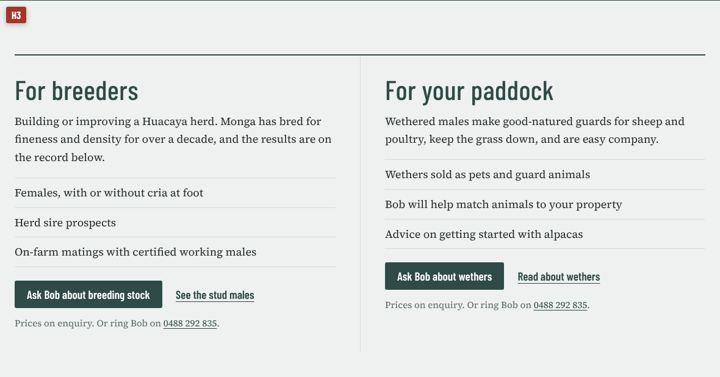
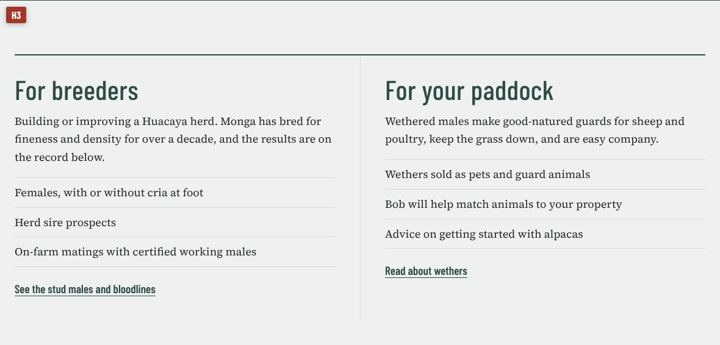
Commit 2: Align photo mosaics with content width

diff --git a/website/index.html b/website/index.html
@@ -64,8 +64,7 @@
           <li>Herd sire prospects</li>
           <li>On-farm matings with certified working males</li>
         </ul>
-        <div class="cta-row"><a class="btn" href="mailto:mongaalpacas@bigpond.com?subject=Breeding%20stock%20enquiry&amp;body=Hello%20Bob%2C%0A%0AI%20am%20interested%20in%20breeding%20stock%20from%20Monga.%0A%0AWhat%20I%20am%20looking%20for%20%28females%2C%20a%20herd%20sire%2C%20matings%29%3A%0A%0AWhere%20I%20am%20based%3A%0A%0AMy%20phone%20number%3A%0A">Ask Bob about breeding stock</a><a class="go" href="#bloodlines">See the stud males</a></div>
-        <p class="cta-note">Prices on enquiry. Or ring Bob on <a href="tel:+61488292835">0488 292 835</a>.</p>
+        <a class="go" href="#bloodlines">See the stud males and bloodlines</a>
       </div>
       <div class="door">
         <h2>For your paddock</h2>
@@ -75,8 +74,7 @@
           <li>Bob will help match animals to your property</li>
           <li>Advice on getting started with alpacas</li>
         </ul>
-        <div class="cta-row"><a class="btn" href="mailto:mongaalpacas@bigpond.com?subject=Wethers%20enquiry&amp;body=Hello%20Bob%2C%0A%0AI%20am%20interested%20in%20wethers%20from%20Monga.%0A%0AHow%20many%2C%20and%20what%20for%20%28pets%2C%20guarding%20sheep%20or%20poultry%29%3A%0A%0AWhere%20I%20am%20based%3A%0A%0AMy%20phone%20number%3A%0A">Ask Bob about wethers</a><a class="go" href="#paddock">Read about wethers</a></div>
-        <p class="cta-note">Prices on enquiry. Or ring Bob on <a href="tel:+61488292835">0488 292 835</a>.</p>
+        <a class="go" href="#paddock">Read about wethers</a>
       </div>
     </div>
   </section>
@@ -121,7 +119,7 @@
       <div><b>Bardella Park Acclaimed</b><span>By Yenaminut Evokateur</span></div>
       <div><b>Bardella Park Mystic Force</b><span>By EP Cambridge Phenomenon. Newest addition</span></div>
     </div>
-    <p class="note" style="margin-top:28px">Fees and availability change through the season. <a href="#contact">Call Bob</a> to talk through your females and what you’re breeding for.</p>
+    <p class="note" style="margin-top:28px">Fees and availability change through the season.</p>
   </section>
 
   <section class="honours" id="honours" data-fb="H5 The show record" aria-labelledby="hon-h">
@@ -193,7 +191,6 @@
           <li>Bob will talk you through fencing, shelter, shearing and feed before you commit</li>
           <li>You’re welcome to visit and meet them first, by arrangement</li>
         </ul>
-        <a class="btn" href="mailto:mongaalpacas@bigpond.com?subject=Wethers%20enquiry&amp;body=Hello%20Bob%2C%0A%0AI%20am%20interested%20in%20wethers%20from%20Monga.%0A%0AHow%20many%2C%20and%20what%20for%20%28pets%2C%20guarding%20sheep%20or%20poultry%29%3A%0A%0AWhere%20I%20am%20based%3A%0A%0AMy%20phone%20number%3A%0A">Ask Bob about wethers</a>
       </div>
     </div>
   </section>
@@ -229,12 +226,13 @@
     </div>
   </section>
 
-  <section class="contact wrap" id="contact" data-fb="H9 Give Bob a ring (contact and map)" aria-labelledby="con-h">
+  <section class="contact wrap" id="contact" data-fb="H9 Contact and map" aria-labelledby="con-h">
     <div class="contact-grid">
       <div>
-        <h2 id="con-h">Give Bob a ring</h2>
+        <h2 id="con-h">Contact</h2>
         <a class="bigphone" href="tel:+61488292835">0488 292 835</a>
-        <p>He’s happy to talk alpacas, whether you’re after a herd sire or two wethers for the back paddock. Visits are by arrangement.</p>
+        <p>Bob is happy to talk alpacas, whether you’re after a herd sire or two wethers for the back paddock. Prices are on enquiry and visits are by arrangement.</p>
+        <p class="enq">Enquire by email: <a href="mailto:mongaalpacas@bigpond.com?subject=Breeding%20stock%20enquiry&amp;body=Hello%20Bob%2C%0A%0AI%20am%20interested%20in%20breeding%20stock%20from%20Monga.%0A%0AWhat%20I%20am%20looking%20for%20%28females%2C%20a%20herd%20sire%2C%20matings%29%3A%0A%0AWhere%20I%20am%20based%3A%0A%0AMy%20phone%20number%3A%0A">breeding stock</a> · <a href="mailto:mongaalpacas@bigpond.com?subject=Wethers%20enquiry&amp;body=Hello%20Bob%2C%0A%0AI%20am%20interested%20in%20wethers%20from%20Monga.%0A%0AHow%20many%2C%20and%20what%20for%20%28pets%2C%20guarding%20sheep%20or%20poultry%29%3A%0A%0AWhere%20I%20am%20based%3A%0A%0AMy%20phone%20number%3A%0A">wethers</a></p>
         <dl>
           <dt>Email</dt><dd><a href="mailto:mongaalpacas@bigpond.com">mongaalpacas@bigpond.com</a></dd>
           <dt>Farm</dt><dd>59 River Forest Road<br>Monga via Braidwood NSW 2622</dd>

diff --git a/website/site.css b/website/site.css
@@ -44,8 +44,8 @@ html{scroll-padding-top:var(--hdr,84px)}
 .top nav a{text-decoration:none;color:var(--ironbark);padding:6px 0;border-bottom:2px solid transparent}
 .top nav a[aria-current]{color:var(--eucalypt);border-bottom-color:var(--grass)}
 .top nav a:hover{color:var(--rosette)}
-.phone{font:600 1.25rem var(--display);text-decoration:none;background:var(--eucalypt);color:#fff;padding:8px 16px;border-radius:3px}
-.phone:hover{background:var(--ironbark);color:#fff}
+.phone{font:600 1.25rem var(--display);text-decoration:none;color:var(--eucalypt);padding:8px 2px;white-space:nowrap}
+.phone:hover{color:var(--rosette)}
 
 /* hero */
 .hero{position:relative;background:#cdd6d6}
@@ -149,7 +149,7 @@ html{scroll-padding-top:var(--hdr,84px)}
 /* contact */
 .contact{padding-top:72px;padding-bottom:96px}
 .contact-grid{display:grid;grid-template-columns:minmax(0,1.2fr) minmax(0,1fr);gap:56px;border-top:2px solid var(--eucalypt);padding-top:40px}
-.bigphone{font:700 clamp(2.8rem,6vw,4.6rem)/1 var(--display);text-decoration:none;color:var(--eucalypt);display:inline-block;margin:10px 0 8px}
+.bigphone{font:600 clamp(2.2rem,4.5vw,3.4rem)/1 var(--display);text-decoration:none;color:var(--eucalypt);display:inline-block;margin:4px 0 18px;font-weight:500}
 .contact dl{margin:0;display:grid;grid-template-columns:auto 1fr;gap:12px 24px}
 .contact dt{font:500 1.05rem var(--display);color:var(--muted)}
 .contact dd{margin:0}
@@ -272,7 +272,7 @@ body.reading{overflow:hidden}
 .album-head{margin-bottom:24px}
 .btn-ghost{font:600 1.15rem var(--display);color:var(--eucalypt);border:1.5px solid var(--eucalypt);padding:8px 16px;border-radius:3px;text-decoration:none;white-space:nowrap}
 .btn-ghost:hover{background:var(--eucalypt);color:#fff}
-.mosaic{display:grid;grid-template-columns:2fr 1fr 1fr;grid-template-rows:repeat(2,minmax(180px,22vw));gap:6px;max-width:1600px;margin:0 auto;padding:0 6px}
+.mosaic{display:grid;grid-template-columns:2fr 1fr 1fr;grid-template-rows:repeat(2,clamp(170px,17vw,250px));gap:8px;max-width:var(--wrap);margin:0 auto;padding:0 24px}
 .m-tile{position:relative;display:block;overflow:hidden;background:var(--mist)}
 .m-tile.big{grid-row:span 2}
 .m-tile img{width:100%;height:100%;object-fit:cover;transition:transform .5s ease}
@@ -280,7 +280,7 @@ body.reading{overflow:hidden}
 .m-tile span{position:absolute;left:0;right:0;bottom:0;padding:28px 14px 10px;font:500 1.05rem var(--display);color:#fff;background:linear-gradient(to top,rgba(0,0,0,.6),rgba(0,0,0,0));letter-spacing:.01em}
 .m-tile.big span{font-size:1.35rem;padding:40px 20px 16px}
 @media (prefers-reduced-motion:reduce){.m-tile img{transition:none}.m-tile:hover img{transform:none}}
-@media (max-width:760px){.mosaic{grid-template-columns:1fr 1fr;grid-template-rows:56vw repeat(2,34vw)}.m-tile.big{grid-column:span 2;grid-row:auto}.m-tile span{font-size:.92rem;padding:22px 10px 8px}}
+@media (max-width:760px){.mosaic{grid-template-columns:1fr 1fr;grid-template-rows:56vw repeat(2,34vw);padding:0 16px}.m-tile.big{grid-column:span 2;grid-row:auto}.m-tile span{font-size:.92rem;padding:22px 10px 8px}}
 
 .sr-only{position:absolute;width:1px;height:1px;padding:0;margin:-1px;overflow:hidden;clip:rect(0,0,0,0);white-space:nowrap;border:0}
 
@@ -344,3 +344,4 @@ body.reading{overflow:hidden}
 .cta-row{display:flex;flex-wrap:wrap;align-items:center;gap:12px 22px;margin-top:6px}
 .cta-note{font-size:.95rem;color:var(--muted);margin:12px 0 0}
 @media (max-width:860px){.hero .copy{background:linear-gradient(to bottom,rgba(238,241,239,.92) 0%,rgba(238,241,239,.8) 42%,rgba(238,241,239,0) 70%)}}
+.enq{font-size:1rem;color:var(--muted)}

diff --git a/website/bob.html b/website/bob.html
@@ -121,7 +121,7 @@ body{font-size:1.3rem;line-height:1.6}
     <div class="part"><div class="code">H6</div><div><h3>Wethers</h3><img src="bob/h6.jpg" alt="Picture of the wethers section" loading="lazy"></div></div>
     <div class="part"><div class="code">H7</div><div><h3>Bob Kingwell and his articles</h3><img src="bob/h7.jpg" alt="Picture of the section about Bob and the list of articles" loading="lazy"></div></div>
     <div class="part"><div class="code">H8</div><div><h3>Around the farm (photos)</h3><img src="bob/h8.jpg" alt="Picture of the five photos near the bottom of the home page" loading="lazy"></div></div>
-    <div class="part"><div class="code">H9</div><div><h3>Give Bob a ring (contact and map)</h3><img src="bob/h9.jpg" alt="Picture of the contact details and the map" loading="lazy"></div></div>
+    <div class="part"><div class="code">H9</div><div><h3>Contact and map</h3><img src="bob/h9.jpg" alt="Picture of the contact details and the map" loading="lazy"></div></div>
     <div class="part"><div class="code">A1</div><div><h3>Articles page, top</h3><img src="bob/a1.jpg" alt="Picture of the top of the articles page" loading="lazy"></div></div>
     <div class="part"><div class="code">A2</div><div><h3>Articles page, list of articles</h3><img src="bob/a2.jpg" alt="Picture of the list of articles, grouped by subject" loading="lazy"></div></div>
     <div class="part"><div class="code">G1</div><div><h3>Gallery page, top</h3><img src="bob/g1.jpg" alt="Picture of the top of the gallery page" loading="lazy"></div></div>
